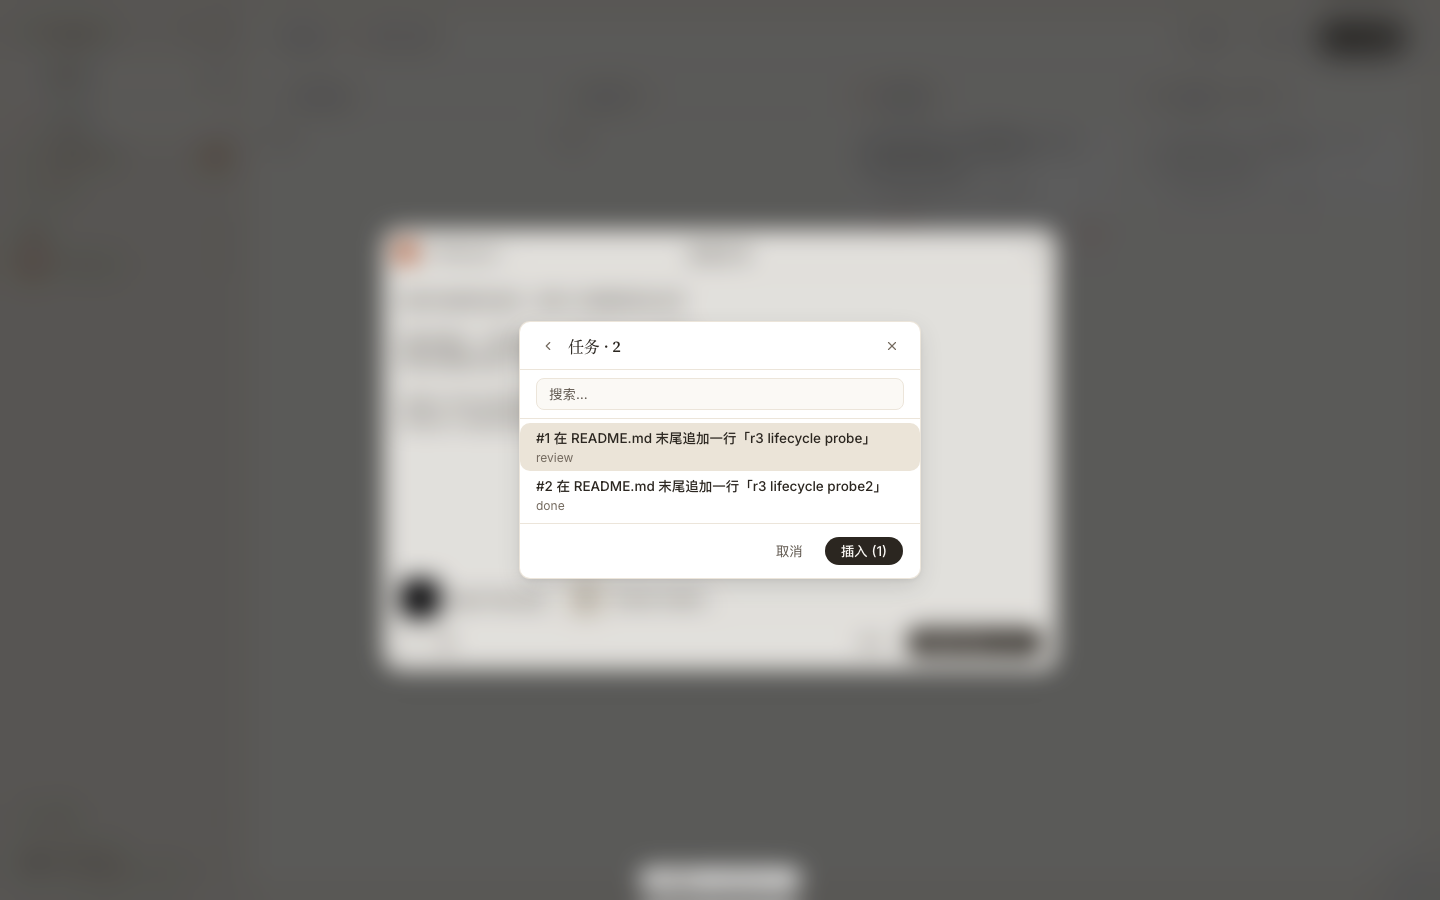
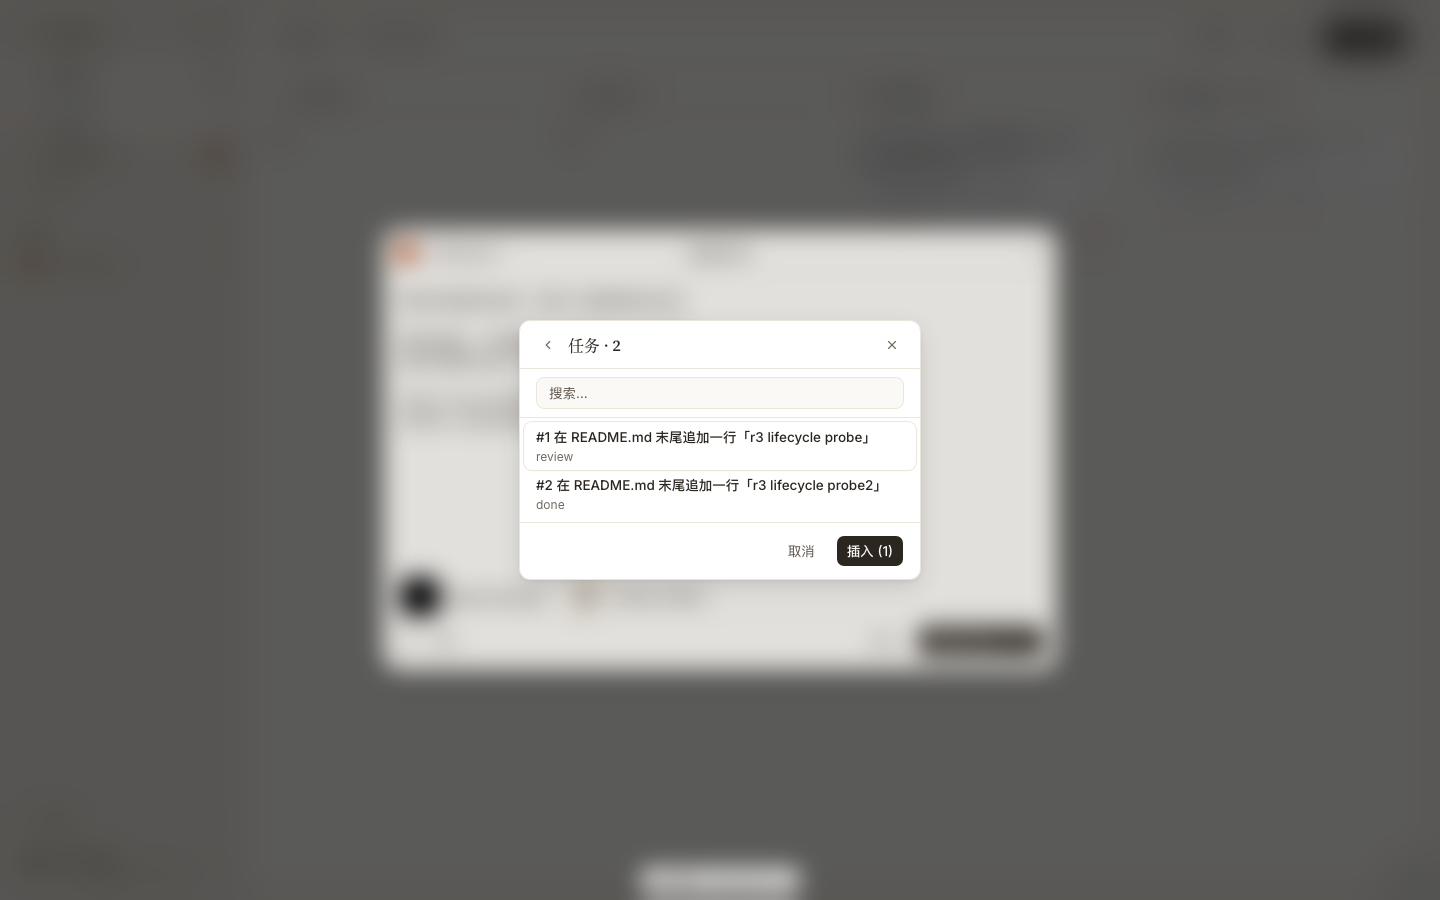
web: shadcn default primary button, white-card selected rows
Primary buttons are the shadcn Button default variant: ink fill, 32px
tall, 8px corners (rounded-md, DESIGN.md control). That covers
DIALOG_PRIMARY_BUTTON (new-task, mention picker 插入, done-confirm,
delete and discard confirms) and TOPBAR_PRIMARY_BUTTON (board 新任务,
detail phase action, schedules and resource 新建), whose consumers no
longer pass size="sm". TOPBAR_TEXT_BUTTON is 32px too, so the top bar
row keeps one height. DESIGN.md describes the primary button this way.

The selected row in ⌘K, the mention picker, the inline @ list and the
slash menu is PICKER_ROW_SELECTED: a white card (bg-card) with a
hairline ring and shadow-xs, with no hover-tone fill and no accent
icon. ⌘K hover lights the same card. Mention picker rows sit in a 4px
inset list with 8px corners so the ring is whole. DESIGN.md records the
rule under 选择器与 ⌘K.

Specs: paper-topbar pins the 新任务 button at data-size default, 32px
and 8px corners, and the narrow-window controls at 32px;
search-focus and search-result-rows read a lit row as --card plus a
ring shadow.

Changed region(s): [[0.3438, 0.3733, 0.6562, 0.5911], [0.5312, 0.5911, 0.625, 0.6533], [0.625, 0.6844, 0.6562, 0.7467]]

diff --git a/apps/web/src/overlay/mention-picker.tsx b/apps/web/src/overlay/mention-picker.tsx
@@ -33,7 +33,11 @@
 import { type Ref, useEffect, useMemo, useState } from 'react';
 import { Button } from '../components/ui/button.js';
 import { Dialog, DialogContent } from '../components/ui/dialog.js';
-import { DIALOG_PRIMARY_BUTTON, DIALOG_TEXT_BUTTON } from '../components/ui/dialog-shell.js';
+import {
+  DIALOG_PRIMARY_BUTTON,
+  DIALOG_TEXT_BUTTON,
+  PICKER_ROW_SELECTED,
+} from '../components/ui/dialog-shell.js';
 import { Input } from '../components/ui/input.js';
 import { useI18n } from '../i18n/provider.js';
 import {
@@ -101,7 +105,7 @@ const PANEL_CLS =
 
 /** 类目/实体行基底（原 .mention-row，Button ghost 七通道中和）。 */
 const ROW_CLS =
-  'flex w-full cursor-pointer items-center justify-start gap-3 border-0 bg-transparent px-4 py-0 text-left text-ui font-normal text-foreground hover:bg-transparent hover:text-foreground dark:hover:bg-transparent aria-expanded:bg-transparent aria-expanded:text-foreground active:not-aria-[haspopup]:translate-y-0 disabled:pointer-events-auto disabled:cursor-default';
+  'flex w-full cursor-pointer items-center justify-start gap-3 rounded-md border-0 bg-transparent px-3 py-0 text-left text-ui font-normal text-foreground hover:bg-transparent hover:text-foreground dark:hover:bg-transparent aria-expanded:bg-transparent aria-expanded:text-foreground active:not-aria-[haspopup]:translate-y-0 disabled:pointer-events-auto disabled:cursor-default';
 
 /** head 返回/关闭钮（原 .mention-picker-back/-close）：24px 方钮、tertiary
  *  墨，hover = ghost 档浅底 + 正文墨。 */
@@ -289,7 +293,7 @@ export function MentionPicker({ open, onClose, onInsert, groups }: MentionPicker
           </Button>
         </div>
         {layer === 'top' ? (
-          <div className="flex-1 overflow-auto py-1">
+          <div className="flex-1 overflow-auto p-1">
             {CATEGORIES.map(({ kind, Icon }) => (
               <TopRow
                 key={kind}
@@ -311,7 +315,7 @@ export function MentionPicker({ open, onClose, onInsert, groups }: MentionPicker
                 onChange={(e) => setQuery(e.target.value)}
               />
             </div>
-            <div className="flex-1 overflow-auto py-1">
+            <div className="flex-1 overflow-auto p-1">
               {filteredEntries.length === 0 ? (
                 <div className="px-4 py-6 text-center text-meta text-content-tertiary">
                   {drilledQuery === ''
@@ -327,7 +331,7 @@ export function MentionPicker({ open, onClose, onInsert, groups }: MentionPicker
                       variant="ghost"
                       type="button"
                       className={`${ROW_CLS} mention-row--entry h-12${
-                        isSelected ? ' bg-(--secondary)' : ''
+                        isSelected ? ` ${PICKER_ROW_SELECTED}` : ''
                       }`}
                       onClick={() => toggle(layer, entry.id)}
                     >
@@ -352,7 +356,7 @@ export function MentionPicker({ open, onClose, onInsert, groups }: MentionPicker
           <Button variant="ghost" className={DIALOG_TEXT_BUTTON} onClick={onClose}>
             {t('取消')}
           </Button>
-          {/* #1055 角色分槽：确认动作 = 主操作 → 墨色胶囊（registry Button
+          {/* #1055 角色分槽：确认动作 = 主操作 → 墨底主钮（registry Button
               default 档，禁用态走 registry opacity 降档）。类名锚原位保留
               （e2e 定位面，零规则）。 */}
           <Button
@@ -431,7 +435,7 @@ const INLINE_PANEL_CLS =
  *  JS 驱动的 --active 高亮共面（#728 combobox 律：箭头与 hover 一种视觉
  *  语言，DOM 焦点恒在 textarea）。 */
 const INLINE_ROW_CLS =
-  'mention-inline-row flex h-10 w-full cursor-pointer items-center justify-start gap-2 rounded-md border-0 bg-transparent px-2 text-left text-ui font-normal text-foreground hover:bg-(--secondary) hover:text-foreground focus:bg-(--secondary) dark:hover:bg-(--secondary) aria-expanded:bg-transparent active:not-aria-[haspopup]:translate-y-0';
+  'mention-inline-row flex h-10 w-full cursor-pointer items-center justify-start gap-2 rounded-md border-0 bg-transparent px-2 text-left text-ui font-normal text-foreground hover:bg-transparent hover:text-foreground focus:bg-transparent dark:hover:bg-transparent aria-expanded:bg-transparent active:not-aria-[haspopup]:translate-y-0';
 
 export function MentionInline({
   open,
@@ -476,7 +480,7 @@ export function MentionInline({
             tabIndex={-1}
             role="option"
             aria-selected={index === highlight}
-            className={`${INLINE_ROW_CLS}${index === highlight ? ' mention-inline-row--active bg-(--secondary)' : ''}`}
+            className={`${INLINE_ROW_CLS}${index === highlight ? ` mention-inline-row--active ${PICKER_ROW_SELECTED}` : ''}`}
             // Keep the textarea focused: a row mousedown must not blur it
             // (focus loss = broken continuous typing + IME, failure mode 4).
             onMouseDown={(event) => event.preventDefault()}

diff --git a/apps/web/e2e/paper-topbar.spec.ts b/apps/web/e2e/paper-topbar.spec.ts
@@ -2,7 +2,7 @@ import { expect, type Page, test } from '@playwright/test';
 
 // Paper board top bar (apps/web/DESIGN.md 布局与间距, paper-redesign-plan PR 4):
 // 56px bar; serif 工作台 + needs-you summary on the left; 筛选 / 定时 text
-// controls and the ink 新任务 pill on the right; nothing wraps.
+// controls and the ink 新任务 button on the right; nothing wraps.
 
 const topbar = (page: Page) => page.locator('[data-route="board"] header').first();
 const summary = (page: Page) => topbar(page).getByTestId('needs-you');
@@ -10,7 +10,7 @@ const pendingCount = (page: Page) =>
   page.locator('.board-column[data-column="pending"]').getByTestId('column-count');
 const filterBtn = (page: Page) => topbar(page).getByRole('button', { name: '筛选', exact: true });
 const schedulesLink = (page: Page) => topbar(page).getByRole('link', { name: '定时' });
-const newTaskPill = (page: Page) => topbar(page).getByRole('button', { name: '新任务' });
+const newTaskButton = (page: Page) => topbar(page).getByRole('button', { name: '新任务' });
 
 test('bar geometry: 56px, serif page title, summary N = the 待处理 column count', async ({
   page,
@@ -79,18 +79,23 @@ test('定时 is a client-side link to the schedules page, scenario kept', async 
   ).toBe('alive');
 });
 
-test('新任务 pill opens the same new-task dialog as C', async ({ page }) => {
-  await page.goto('/app?scenario=01');
-  await expect(newTaskPill(page)).toHaveAttribute('data-variant', 'default');
-  await newTaskPill(page).click();
-  await expect(page.getByRole('dialog', { name: '新建任务' })).toBeVisible();
-});
-
-test('keyboard: Tab reaches all three controls with a visible focus ring; Enter on the pill opens the dialog', async ({
+test('新任务 is the shadcn default Button (ink, 32px, 8px corners) and opens the same new-task dialog as C', async ({
   page,
 }) => {
   await page.goto('/app?scenario=01');
-  const targets = [filterBtn(page), schedulesLink(page), newTaskPill(page)];
+  await expect(newTaskButton(page)).toHaveAttribute('data-variant', 'default');
+  await expect(newTaskButton(page)).toHaveAttribute('data-size', 'default');
+  await expect(newTaskButton(page)).toHaveCSS('height', '32px');
+  await expect(newTaskButton(page)).toHaveCSS('border-top-left-radius', '8px');
+  await newTaskButton(page).click();
+  await expect(page.getByRole('dialog', { name: '新建任务' })).toBeVisible();
+});
+
+test('keyboard: Tab reaches all three controls with a visible focus ring; Enter on 新任务 opens the dialog', async ({
+  page,
+}) => {
+  await page.goto('/app?scenario=01');
+  const targets = [filterBtn(page), schedulesLink(page), newTaskButton(page)];
   for (const target of targets) {
     let reached = false;
     for (let i = 0; i < 60 && !reached; i++) {
@@ -120,11 +125,11 @@ test('narrow window: the summary truncates, the controls stay on one row inside 
   if (bar == null) throw new Error('missing bar');
   expect(bar.height).toBe(56);
   const boxes = await Promise.all(
-    [filterBtn(page), schedulesLink(page), newTaskPill(page)].map((l) => l.boundingBox()),
+    [filterBtn(page), schedulesLink(page), newTaskButton(page)].map((l) => l.boundingBox()),
   );
   for (const b of boxes) {
     if (b == null) throw new Error('missing control');
-    expect(b.height).toBe(30);
+    expect(b.height).toBe(32);
     expect(b.y).toBe(boxes[0]?.y);
     expect(b.x + b.width).toBeLessThanOrEqual(bar.x + bar.width);
   }

diff --git a/apps/web/src/overlays/search-panel.tsx b/apps/web/src/overlays/search-panel.tsx
@@ -29,7 +29,12 @@ import { useLocation, useNavigate } from 'react-router';
 import { useAgentAvatarUrlById } from '../api/provider.js';
 import { relativeTime } from '../board/rel-time.js';
 import { Button } from '../components/ui/button.js';
-import { DIALOG_FACE, DialogShell, VIEWPORT_POP_ANIM } from '../components/ui/dialog-shell.js';
+import {
+  DIALOG_FACE,
+  DialogShell,
+  PICKER_ROW_SELECTED,
+  VIEWPORT_POP_ANIM,
+} from '../components/ui/dialog-shell.js';
 import { Input } from '../components/ui/input.js';
 import { SeededAvatar } from '../components/ui/seeded-avatar.js';
 import { StatusChip } from '../components/ui/status-chip.js';
@@ -70,8 +75,8 @@ const NAV_ROWS = [
 
 /** 行钮皮肤（#949 per-face 清零；Paper：40px 行 / 8px 圆角 / 列表容器 8px
  *  侧距 / 六档字号 / 4px 网格）。Button ghost 件配方按
- *  #908 裁决 3 七通道中和：hover 涂底换成 --row-selected 正典 pill（本族
- *  不吃 motion.css #73 的 accent-soft 淡 tint，键盘 cursor 与 hover 共面）、
+ *  #908 裁决 3 七通道中和：hover 涂底换成选中行白卡（PICKER_ROW_SELECTED，
+ *  键盘 cursor 与 hover 共面）、
  *  hover 墨色钉住行墨、press 位移禁掉（XMON-69 例外律变体链）、1px 透明边
  *  归零（border-none，r7 行盒）、font-medium 归 normal、justify/gap 随档位。
  *  focus 环 = 件基类 #388 canon，与旧全局环同值，不重复写。 */
@@ -81,22 +86,14 @@ const ROW_BASE =
 /** 结果行（任务/项目/agent）差额：icon tile 列距 12px、左垫 8px。 */
 const ROW_RESULT = 'gap-3 pl-2';
 
-/** 亮行图标 = 赭红（侧栏激活项同律：激活项图标走 accent）。行首 svg（前往）
- *  与 tile 内 svg（任务）两种落位。 */
-const LIT_ICON = '[&>svg]:text-(--card-button) [&>span:first-child>svg]:text-(--card-button)';
-const HOVER_LIT_ICON =
-  'hover:[&>svg]:text-(--card-button) hover:[&>span:first-child>svg]:text-(--card-button)';
-
 /** #159 hover 跟随的三态行底（渲染期条件类，旧 data-kbd CSS 覆写的等值
- *  机制）：静息 = 透明；鼠标态 = hover 亮正典 pill；键盘 cursor 活着 =
- *  非选中行的 hover pill 让位（唯一亮面律），选中行静息底 + hover 同值
- *  恒亮。dark: 双写中和 ghost 件的 dark:hover:bg-muted/50（--row-selected
- *  自带主题翻转，值同源）。 */
+ *  机制）：静息 = 透明；鼠标态 = hover 亮白卡 + 发丝环；键盘 cursor 活着 =
+ *  非选中行的 hover 让位（唯一亮面律），选中行静息 + hover 同值恒亮。
+ *  dark: 双写中和 ghost 件的 dark:hover:bg-muted/50。 */
 function rowLitClasses(selected: boolean, kbd: boolean): string {
-  if (selected)
-    return `bg-(--secondary) hover:bg-(--secondary) dark:hover:bg-(--secondary) ${LIT_ICON}`;
+  if (selected) return PICKER_ROW_SELECTED;
   if (kbd) return 'hover:bg-transparent dark:hover:bg-transparent';
-  return `hover:bg-(--secondary) dark:hover:bg-(--secondary) ${HOVER_LIT_ICON}`;
+  return 'hover:bg-card hover:shadow-xs hover:ring-1 hover:ring-border dark:hover:bg-card';
 }
 
 /** 28px icon tile（结果行首列）：--row-icon-bg 底 + 8px 圆角；项目/agent

diff --git a/apps/web/src/overlay/new-task-dialog.tsx b/apps/web/src/overlay/new-task-dialog.tsx
@@ -769,7 +769,7 @@ export function NewTaskDialog({
           <AttachmentStrip draft={spec} pending={pendingAttachments} />
         </div>
         <div className="flex-none border-t border-border p-3">
-          <div className="flex h-7.5 items-center">
+          <div className="flex h-8 items-center">
             {/* A4-deep 收编：icon 变体皮肤；30×30 = size-7.5（原 .new-task-tools
                 button 元素选择器）。 */}
             <div className="flex items-center gap-1" data-testid="new-task-tools">
@@ -818,7 +818,7 @@ export function NewTaskDialog({
                 {/* XMON-95 界面标识：常亮按键角标（kbd-hint 的 hover chip 是
                     另一面，这里要「看得到」，故静息可见）。落在 kbd.tsx 原语
                     上（COMPONENTS.md「文档正文里的按键角标用 kbd.tsx」），只把
-                    registry 的尺寸/配色档改写到本面：本钮是墨色胶囊，角标底与
+                    registry 的尺寸/配色档改写到本面：本钮是墨底主钮，角标底与
                     墨走 primary-foreground 半透明系而非 muted。
                     aria-hidden：角标是视觉提示，按钮的可及名仍是文字本身。 */}
                 <Kbd
@@ -861,7 +861,7 @@ export function NewTaskDialog({
           <div className="font-heading text-heading font-medium text-foreground">
             {t('放弃新建任务？未保存的内容将丢失。')}
           </div>
-          <div className="flex h-7.5 items-center justify-end gap-2">
+          <div className="flex h-8 items-center justify-end gap-2">
             {/* 原 .new-task-discard-keep：文字次操作；放弃 = 唯一主操作，保危险
                 token。 */}
             <Button

diff --git a/apps/web/src/detail/dhead.tsx b/apps/web/src/detail/dhead.tsx
@@ -1,6 +1,6 @@
 // Detail top bar (issue #56; Paper top bar, paper-redesign-plan PR 7): back
 // link, serif task title, #seq, the status (icon + color + label) that
-// toggles the assignment popover, then 更多 and the phase's one ink pill.
+// toggles the assignment popover, then 更多 and the phase's one ink primary button.
 // #58: the back link carries the current search string home so the
 // dev/fixture ?scenario= selection survives the round trip. #1255: each
 // column list's scrollTop is restored by BoardSurface from sessionStorage.
@@ -189,7 +189,6 @@ export function DetailHead({
             // #1216: a start/rerun already went out; a second click would
             // spawn another orchestration thread.
             <Button
-              size="sm"
               className={`detail-head-action ${TOPBAR_PRIMARY_BUTTON}`}
               data-orchestrating="true"
               disabled
@@ -197,11 +196,7 @@ export function DetailHead({
               {t('编排中')}
             </Button>
           ) : (
-            <Button
-              size="sm"
-              className={`detail-head-action ${TOPBAR_PRIMARY_BUTTON}`}
-              onClick={onAction}
-            >
+            <Button className={`detail-head-action ${TOPBAR_PRIMARY_BUTTON}`} onClick={onAction}>
               {t(action)}
             </Button>
           ))}

diff --git a/apps/web/src/components/ui/dialog-shell.tsx b/apps/web/src/components/ui/dialog-shell.tsx
@@ -73,12 +73,17 @@ export const VIEWPORT_POP_ANIM =
 export const DIALOG_FACE =
   'rounded-(--edge-radius) bg-dialog-surface shadow-(--shadow-popover) ring-0';
 
-/** 对话框主操作：墨色胶囊（Button default 档；危险确认换 destructive 档保危险
- *  token），一个对话框只有一个。 */
-export const DIALOG_PRIMARY_BUTTON = 'h-7.5 gap-1.5 rounded-full px-4 text-ui';
+/** 对话框主操作：Button default 档（墨底、32px）+ 8px 圆角；危险确认换
+ *  destructive 档保危险 token。一个对话框只有一个。 */
+export const DIALOG_PRIMARY_BUTTON = 'rounded-md text-ui';
 
 /** 对话框次操作：文字按钮（Button ghost 档），hover 出浅底。 */
-export const DIALOG_TEXT_BUTTON = 'h-7.5 gap-1.5 px-3 text-ui font-normal text-content-secondary';
+export const DIALOG_TEXT_BUTTON = 'gap-1.5 px-3 text-ui font-normal text-content-secondary';
+
+/** 选择器 / ⌘K 的选中行：白卡 + 发丝环 + 极轻卡片投影，不铺 hover 色、不带
+ *  赭红。 */
+export const PICKER_ROW_SELECTED =
+  'bg-card shadow-xs ring-1 ring-border hover:bg-card dark:hover:bg-card';
 
 interface DialogShellProps {
   /** Left header title; absent when `headerCenter` renders instead. */

diff --git a/apps/web/src/board/filter-panel.tsx b/apps/web/src/board/filter-panel.tsx
@@ -50,11 +50,13 @@ import { TagChip } from '../components/ui/tag-chip.js';
 import { useI18n } from '../i18n/provider.js';
 import { Check, X } from '../icons/index.js';
 
-/** 顶栏文字按钮（筛选 / 定时）共用的几何与墨色：30px 高、14px 图标、界面字号。 */
-export const TOPBAR_TEXT_BUTTON = 'h-7.5 gap-1.5 px-2.5 text-ui font-normal text-content-secondary';
+/** 顶栏文字按钮（筛选 / 定时）共用的几何与墨色：32px 高（与主按钮同排同高）、14px
+ *  图标、界面字号。 */
+export const TOPBAR_TEXT_BUTTON = 'h-8 gap-1.5 px-2.5 text-ui font-normal text-content-secondary';
 
-/** 顶栏主操作（新任务 / 新建）：墨色胶囊，一屏只有一个。 */
-export const TOPBAR_PRIMARY_BUTTON = 'ml-2 h-7.5 gap-1.5 rounded-full pr-3.5 pl-3 text-ui';
+/** 顶栏主操作（新任务 / 新建）：Button default 档（墨底、32px）+ 8px 圆角，
+ *  一屏只有一个。 */
+export const TOPBAR_PRIMARY_BUTTON = 'ml-2 gap-1.5 rounded-md text-ui';
 
 /** 选项超过此数才给搜索框——短词表（固定 6 词）搜索框是纯噪音。 */
 const SEARCH_THRESHOLD = 8;

diff --git a/apps/web/src/board/board.tsx b/apps/web/src/board/board.tsx
@@ -37,7 +37,7 @@
 // 列头状态图标见 ColumnIcon（DESIGN.md 图标）。
 // Paper 顶栏（DESIGN.md 布局与间距）：56px；左 = 衬线「工作台」+ 等你处理
 // 摘要（N = 待处理列当前可见卡数，与列头计数同源）+ 生效筛选条；右 = 文字钮
-// 筛选（filter-panel.tsx）/ 定时（路由链接）+ 墨色胶囊「新任务」（与侧栏
+// 筛选（filter-panel.tsx）/ 定时（路由链接）+ 墨底主钮「新任务」（与侧栏
 // 新任务行、C 热键同一个 opener）。全部 nowrap，窄窗先截断摘要。横幅与
 // scroller 随文档流排在顶栏下方，不再按顶栏高度写死偏移。
 
@@ -327,7 +327,7 @@ export function BoardSurface({
             {t('定时')}
           </Button>
           {onNewTask != null && (
-            <Button size="sm" className={TOPBAR_PRIMARY_BUTTON} onClick={onNewTask}>
+            <Button className={TOPBAR_PRIMARY_BUTTON} onClick={onNewTask}>
               <Plus aria-hidden strokeWidth={1.75} className="size-3.5" />
               {t('新任务')}
             </Button>

diff --git a/apps/web/e2e/search-result-rows.spec.ts b/apps/web/e2e/search-result-rows.spec.ts
@@ -25,17 +25,17 @@ const TRANSPARENT = 'rgba(0, 0, 0, 0)';
 const rowBg = (locator: Locator) =>
   locator.evaluate((el) => getComputedStyle(el).backgroundColor);
 
-/** A lit row paints the canon pill: background === resolved
- *  --row-selected (the look the r7 05 fixed selected row used to carry),
- *  not the generic #73 surface-hover tint. */
+/** A lit row paints the selected-row card (PICKER_ROW_SELECTED): --card
+ *  fill plus the hairline ring box-shadow, not a hover-tone fill. */
 const isLit = (locator: Locator) =>
   locator.evaluate((el) => {
     const probe = document.createElement('span');
-    probe.style.color = 'var(--secondary)';
+    probe.style.color = 'var(--card)';
     document.documentElement.append(probe);
     const lit = getComputedStyle(probe).color;
     probe.remove();
-    return getComputedStyle(el).backgroundColor === lit;
+    const cs = getComputedStyle(el);
+    return cs.backgroundColor === lit && cs.boxShadow !== 'none';
   });
 
 /** ⌘K until the panel answers — the hotkey listener registers in a

diff --git a/apps/web/e2e/search-focus.spec.ts b/apps/web/e2e/search-focus.spec.ts
@@ -32,17 +32,18 @@ function pillBg(locator: Locator) {
   return locator.evaluate((el) => getComputedStyle(el).backgroundColor);
 }
 
-/** #159: the hovered row lights with the canon pill — its background
- *  equals the resolved --row-selected token (the look the r7 05 fixed
- *  selected row used to carry), not the generic #73 surface-hover tint. */
+/** #159: the hovered row lights as the selected-row card (Paper dialogs PR,
+ *  PICKER_ROW_SELECTED): --card fill plus the hairline ring box-shadow, not
+ *  a hover-tone fill. */
 function isLit(locator: Locator) {
   return locator.evaluate((el) => {
     const probe = document.createElement('span');
-    probe.style.color = 'var(--secondary)';
+    probe.style.color = 'var(--card)';
     document.documentElement.append(probe);
     const lit = getComputedStyle(probe).color;
     probe.remove();
-    return getComputedStyle(el).backgroundColor === lit;
+    const cs = getComputedStyle(el);
+    return cs.backgroundColor === lit && cs.boxShadow !== 'none';
   });
 }
 

diff --git a/apps/web/src/overlay/slash-menu.tsx b/apps/web/src/overlay/slash-menu.tsx
@@ -24,7 +24,7 @@
 import { Fragment, type Ref, useEffect } from 'react';
 import { Button } from '../components/ui/button.js';
 import { Dialog, DialogContent, DialogTitle } from '../components/ui/dialog.js';
-import { DIALOG_FACE } from '../components/ui/dialog-shell.js';
+import { DIALOG_FACE, PICKER_ROW_SELECTED } from '../components/ui/dialog-shell.js';
 import { useI18n } from '../i18n/provider.js';
 import type { SlashRow } from './slash-commands.js';
 
@@ -113,7 +113,7 @@ export function SlashMenu({
                     tabIndex={-1}
                     role="option"
                     aria-selected={index === highlight}
-                    className={`${ROW_CLS}${index === highlight ? ' bg-(--secondary)' : ''}`}
+                    className={`${ROW_CLS}${index === highlight ? ` ${PICKER_ROW_SELECTED}` : ''}`}
                     onMouseDown={(event) => event.preventDefault()}
                     onMouseEnter={() => onHover(index)}
                     onClick={() => onPick(row)}

diff --git a/apps/web/src/resources/parts.tsx b/apps/web/src/resources/parts.tsx
@@ -34,17 +34,12 @@ import { ChevronRight, Lock } from '../icons/index.js';
    RES_SORT_WRAP）随最后一个消费点迁完删除（#1054 消费点方角清点执行，
    台账见 docs/spec/27）。行容器是纯 layout，留守。 */
 
-/** Top bar `+ 新建` of the resource pages: the ink pill primary.
+/** Top bar `+ 新建` of the resource pages: the ink primary button.
  *  data-testid="resource-new" is the hit-test probe handle (title-band-clicks). */
 export function ResourceNewButton({ onClick }: { onClick: () => void }) {
   const { t } = useI18n();
   return (
-    <Button
-      size="sm"
-      className={TOPBAR_PRIMARY_BUTTON}
-      onClick={onClick}
-      data-testid="resource-new"
-    >
+    <Button className={TOPBAR_PRIMARY_BUTTON} onClick={onClick} data-testid="resource-new">
       <Plus aria-hidden strokeWidth={1.75} className="size-3.5" />
       {t('新建')}
     </Button>
